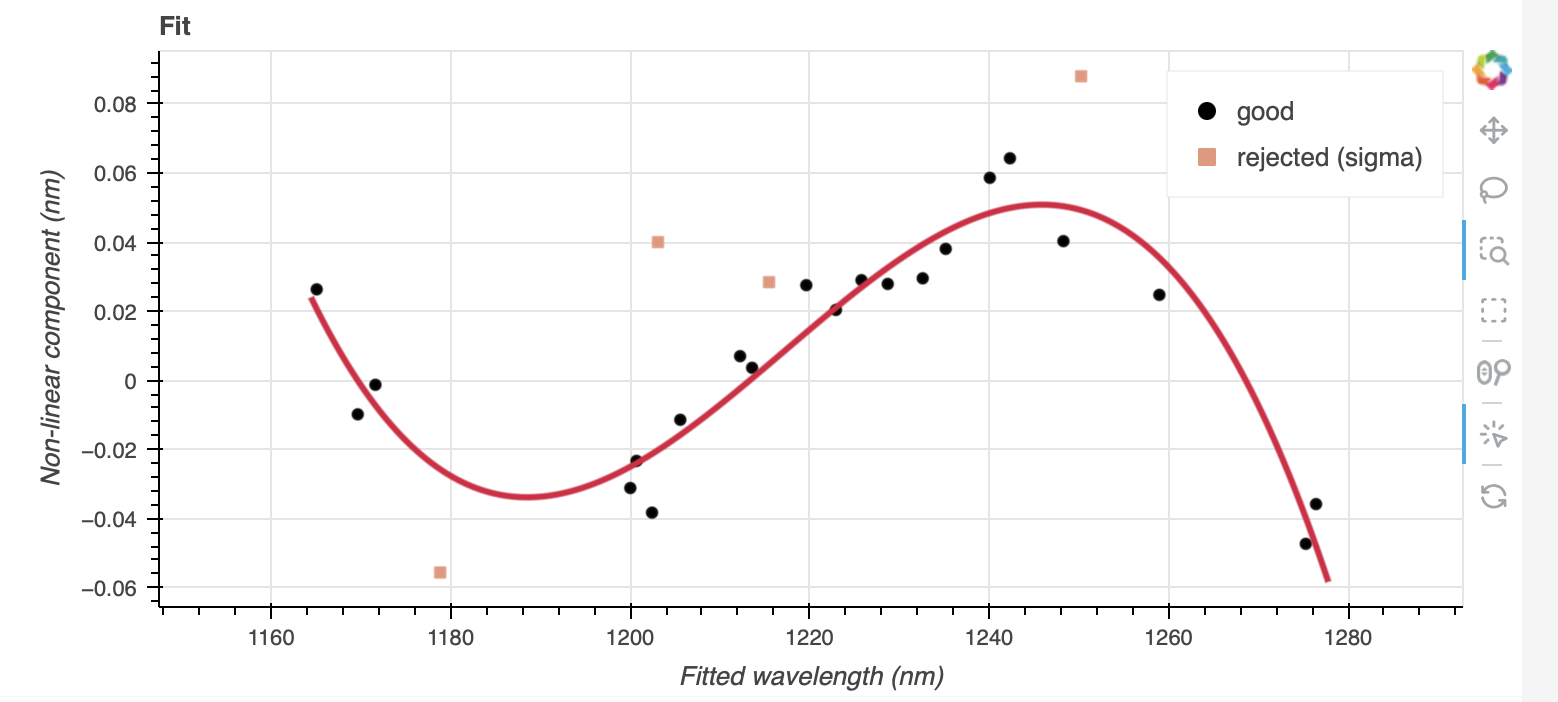
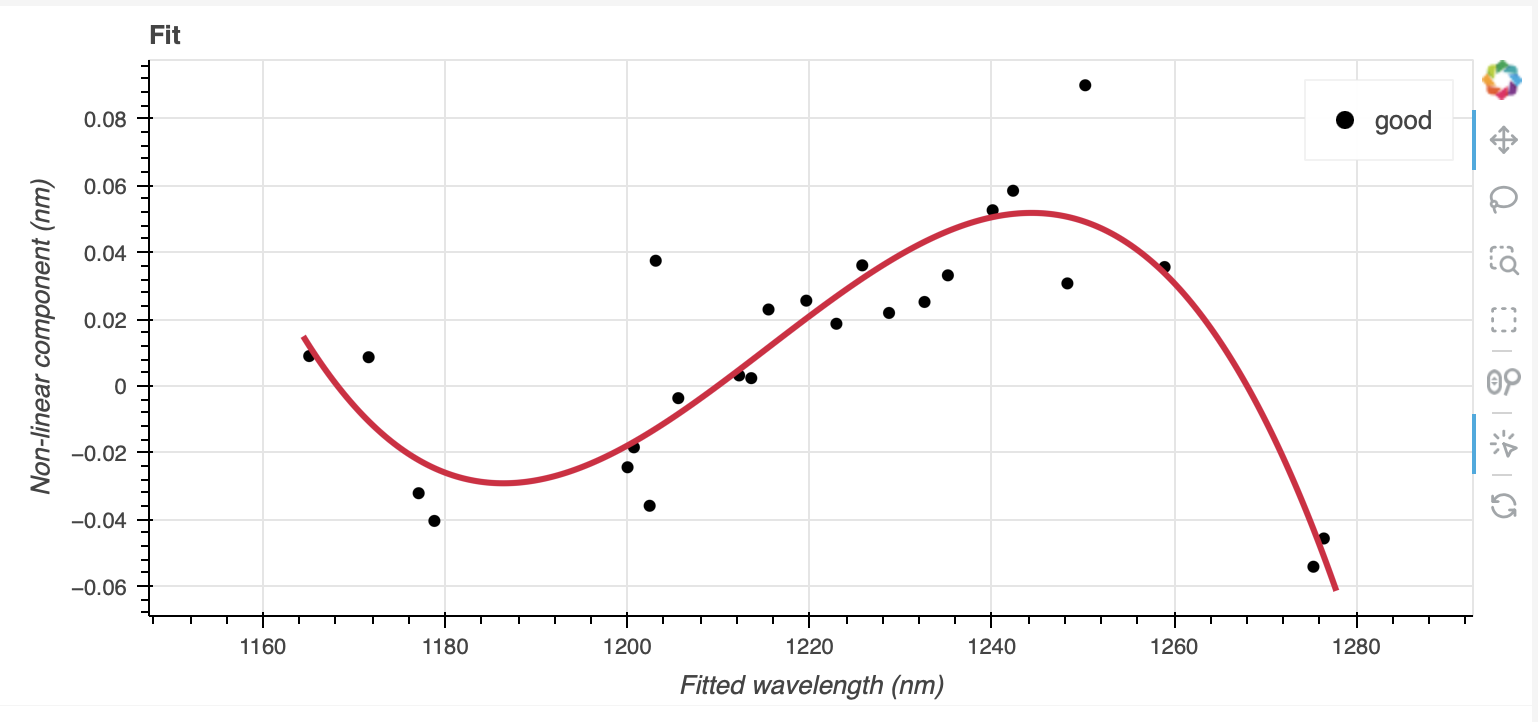
command line examples up to example 3.  Updated to Feb2025 master branch which works much better than the one from last May.

diff --git a/geminidr/doc/tutorials/GNIRSLS-DRTutorial/conf.py b/geminidr/doc/tutorials/GNIRSLS-DRTutorial/conf.py
@@ -25,7 +25,7 @@ today = 'May 2025'
 
 extensions = ['sphinx.ext.intersphinx',
     'sphinx.ext.todo',
-    'sphinx.ext.imgmath'
+    'sphinx.ext.imgmath',
 ]
 
 templates_path = ['_templates']

diff --git a/geminidr/doc/tutorials/GNIRSLS-DRTutorial/ex2_gnirsls_Jband111mm_cmdline.rst b/geminidr/doc/tutorials/GNIRSLS-DRTutorial/ex2_gnirsls_Jband111mm_cmdline.rst
@@ -2,7 +2,7 @@
 
 .. include:: symbols.txt
 
-.. _gnirs_Jband111mm_cmdline:
+.. _gnirsls_Jband111mm_cmdline:
 
 **************************************************************************
 Example 2 - J-band Longslit Point Source - Using the "reduce" command line
@@ -175,8 +175,7 @@ you run ``normalizeFlat`` in interactive mode you can clearly see the two
 levels.
 
 In interactive mode, the objective is to get a fit that falls inbetween the
-two sets of points, with a symmetrical residual fit.  In this case, order=30
-worked well.
+two sets of points, with a symmetrical residual fit.
 
 Note that you are not required to run in interactive mode, but you might want
 to if flat fielding is critical to your program.
@@ -185,9 +184,9 @@ to if flat fielding is critical to your program.
 
     reduce @flats.lis -p interactive=True
 
-In this case, we find that sigma clipping with 1 iteration and
-grow=2 rejects the outliers at the left end of the flat.  The fit
-leads to residuals that are symmetrical.
+In this case, order=20, the default, worked well and we find that sigma
+clipping with 1 iteration and grow=2 rejects the outliers at the left end
+of the flat.  The fit leads to residuals that are symmetrical.
 
 .. image:: _graphics/gnirsls_Jband111_evenoddflat.png
    :width: 600
@@ -203,8 +202,9 @@ topic.  The quality of the results and what to use depend greatly on the
 wavelength regime and the grating.
 
 Our configuration in this example is J-band with a central wavelength of
-1.22 |um|, using the 111 l/mm grating. Arcs are available, however there
-might be cases where there are too few lines to get a good solution.
+1.22 |um|, using the 111 l/mm grating. Arcs are available, however, depending
+on the central wavelength setting, there might be cases where there are too
+few lines or the coverage is not adequate to get a good solution.
 
 In our current case, the numbers of arcs lines and sky lines are similar.
 Either solution could work.  We will show the result of both.  It is up to
@@ -227,20 +227,23 @@ an arc lamp.
 
 Here, increasing the order to 4 helps to get a tighter fit.
 
-.. image:: _graphics/gnirsls_Jband111mm_arc.png
-   :width: 600
-   :alt: Arc line identifications and fit
+.. image:: _graphics/gnirsls_Jband111mm_arcID.png
+    :width: 600
+    :alt: Arc line identifications
 
-.. todo:: redo the screenshot and separate the line plot and the fit to
-        avoid having the buttons in the way.
+.. image:: _graphics/gnirsls_Jband111mm_arcfit.png
+   :width: 600
+   :alt: Arc line fit
+
 
 Using the sky lines
 -------------------
 The spectrum has a number of OH and O\ :sub:`2` sky lines that can be used to
 create a wavelength solution.  The calibration can be done on a single frame
 or, in case of multiple input frames, the frames will be stacked.  It is
-recommended to use only one frame for a more precised wavelength solution,
-unless multiple frames are needed to increase the signal-to-noise ratio.
+recommended to use only one frame for a more precise wavelength solution,
+unless multiple frames are needed to increase the signal-to-noise ratio.  Here
+we will use all the frames in the ``sci.lis`` list.
 
 Wavelength calibration from sky lines is better done in interactive mode
 despite our efforts to automate the process.
@@ -252,21 +255,8 @@ invoke the ``makeWavecalFromSkyEmission`` recipe.
 
     reduce @sci.lis -r makeWavecalFromSkyEmission -p interactive=True
 
-In this case, you will initially get no fit at all in the interactive window.
-This is because the
-sky lines are relatively weak.
-
-.. image:: _graphics/gnirsls_Jband111_noskyfit.png
-   :width: 600
-   :alt: No sky lines found, no fit
-
-On the left control panel, set the ``Minimum SNR`` to 5 (down from the default
-of 10).  Then click the "Reconstruct points" button.  Sky lines will now be
-identified and you will get a fit.  Use the sky line model at the top as a
-reference to ensure that the fit is correct.  You can also add some of the
-weaker lines manually, and/or change the sigma clipping parameters.
-For example, lowering the high and low sigma clipping to 2 will help reject
-some of the weak blended lines that are more inaccurate.
+In this case, using all the frames, we get a good signal to noise and an
+automatic fit.  If you wanted, you could identify more sky lines manually.
 
 .. image:: _graphics/gnirsls_Jband111_skylineref.png
    :width: 600
@@ -275,6 +265,14 @@ some of the weak blended lines that are more inaccurate.
 .. image:: _graphics/gnirsls_Jband111_skyfit.png
    :width: 600
    :alt: Sky lines fit
+
+.. note::  If the sky lines were too weak and not fit were found, a possible
+    solution is to lower the minimum SNR to 5 (down from the default of 10).
+    This setting is in the left control panel.  When done, click the the
+    "Reconstruct points" button.
+
+.. note:: Lowering the high and low sigma clipping to 2 will help reject some
+    of the weak blended lines that are more inaccurate.
 
 Each case will be slightly different.   Whether you decide to use the solution
 from the arc lamp or the sky lines is up to you.
@@ -297,13 +295,9 @@ this step will NOT make any adjustment.  We found that in general, the
 adjustment is so small as being in the noise.  If you wish to make an
 adjustment, or try it out, see :ref:`wavzero` to learn how.
 
-For this dataset, the automatic wavelength zero point algorithm would find a
-shift of no more than 0.1333 pixels (-0.01479 nm), so not really significant.
-This is typical and why the default is set to do nothing.
-
 This is what one raw image looks like.
 
-.. image:: _graphics/gnirsls_Jband111mm_raw.png
+.. image:: _graphics/gnirsls_Jband111nm_raw.png
    :width: 400
    :alt: raw science image
 
@@ -312,7 +306,7 @@ to call |reduce| on the science frames to get an extracted spectrum.
 
 .. note::  If you have derived a wavelength solution from both the arcs and
      the sky lines, as we've done here, you will have two solutions in the
-     calibration manager database.  My default, the system will pick the sky
+     calibration manager database.  By default, the system will pick the sky
      line solution because the solution is closer in time (same time, in fact)
      as the science observations.  If you wish to use the lamp solution, either
      delete the sky line solution from the database
@@ -324,23 +318,39 @@ to call |reduce| on the science frames to get an extracted spectrum.
 
 ::
 
-    reduce @sci.lis -p findAperture:max_apertures=1 traceApertures:niter=3 distortionCorrect:order=1
+    reduce @sci.lis
 
-.. todo:: funky shape to the spectrum.  Somewhat visible in the raw data
-        however.
+The 2D spectrum looks like this:
 
-.. todo:: way too many junk apertures.
+::
 
-.. todo:: trace again benefits from sigma clipping with 3 iterations.
+    reduce -r display N20180201S0052_2D.fits
+
+.. image:: _graphics/gnirsls_Jband111mm_2D.png
+   :width: 400
+   :alt: reduced 2D spectrum
+
+The 1D spectrum looks like this:
+
+::
+
+    dgsplot N20180201S0052_1D.fits 1
+
+.. image:: _graphics/gnirsls_Jband111mm_1D.png
+   :width: 400
+   :alt: raw science image
 
 
 
-
-
-From Olesja about the using stack vs single for sky line wavecal, and how to
-set the sigma based on SNR and blended lines.
-
-I didn’t look into the amount of shift between the lines during sequences. My assumption was that if the PIs care about the precise wavecal, they would try to use a single frame (if the SNR allows), and if they don’t care or if the SNR is low, they would use a stack. (edited)
-
-Also, I wouldn’t think of the rejected lines in both of the above plots as “good”. Most are barely above the noise level, and the others are blends, which in my book is a definition of a “bad” line (especially when there are enough of unblended strong lines to choose from).
-I actually tried to filter out this kind of lines on purpose by setting the default lsigma and hsigma for wavecal from skylines to “2” . If you set those back to “3" it maybe that most of these lines wouldn’t get rejected. (edited)
+.. From Olesja about the using stack vs single for sky line wavecal,
+   and how to set the sigma based on SNR and blended lines.  I didn’t look
+   into the amount of shift between the lines during sequences. My assumption
+   was that if the PIs care about the precise wavecal, they would try to use a
+   single frame (if the SNR allows), and if they don’t care or if the SNR is
+   low, they would use a stack. Also, I wouldn’t think of the rejected lines
+   in both of the above plots as “good”. Most are barely above the noise level,
+   and the others are blends, which in my book is a definition of a “bad” line
+   (especially when there are enough of unblended strong lines to choose from).
+   I actually tried to filter out this kind of lines on purpose by setting the
+   default lsigma and hsigma for wavecal from skylines to “2” . If you set
+   those back to “3" it maybe that most of these lines wouldn’t get rejected. (edited)

diff --git a/geminidr/doc/tutorials/GNIRSLS-DRTutorial/ex3_gnirsls_Lband10mm_cmdline.rst b/geminidr/doc/tutorials/GNIRSLS-DRTutorial/ex3_gnirsls_Lband10mm_cmdline.rst
@@ -9,13 +9,12 @@ Example 3 - L-band Longslit Point Source - Using the "reduce" command line
 **************************************************************************
 
 We will reduce the GNIRS L-band longslit observation of "HD41335", a Be-star,
-using the "|reduce|" command that
-is operated directly from the unix shell.  Just open a terminal and load
-the DRAGONS conda environment to get started.
+using the "|reduce|" command that is operated directly from the unix shell.
+Just open a terminal and load the DRAGONS conda environment to get started.
 
-This observation uses the 10 l/mm grating, the longred camera, a 0.1 arcsec
+This observation uses the 10 l/mm grating, the long-red camera, a 0.1 arcsec
 slit, and is centered at 3.7 |um|.  The dither pattern is a standard
-ABBA.
+ABBA sequence.
 
 The dataset
 ===========
@@ -64,7 +63,7 @@ could contain different observed targets and different exposure times depending
 on how you like to organize your raw data.
 
 The DRAGONS data reduction pipeline does not organize the data for you.  You
-have to do it.  However, DRAGONS provides tools to help you with that.
+have to do it.  However, DRAGONS provides tools to help you.
 
 The first step is to create input file lists.  The tool "|dataselect|" helps
 with that.  It uses Astrodata tags and "|descriptors|" to select the files and
@@ -94,7 +93,7 @@ In our case, the science observations can be selected from the observation
 class, ``science``, that is how they are differentiated from the telluric
 standards which are ``partnerCal``.
 
-If we had multiple targets, we would need to split them into separate list. To
+If we had multiple targets, we would need to split them into separate lists. To
 inspect what we have we can use |dataselect| and |showd| together.
 
 ::
@@ -154,8 +153,10 @@ you run ``normalizeFlat`` in interactive mode you can clearly see the two
 levels.
 
 In interactive mode, the objective is to get a fit that falls inbetween the
-two sets of points, with a symmetrical residual fit.  In this case, order=30
-worked well.
+two sets of points, with a symmetrical residual fit.  In this case, because
+of the rapid variations around pixel 800, increasing the order could improve
+the final results.  Setting ``order=50`` fits that area well while still
+offering a good fit elsewhere.
 
 Note that you are not required to run in interactive mode, but you might want
 to if flat fielding is critical to your program.
@@ -166,35 +167,45 @@ to if flat fielding is critical to your program.
 
 The interactive tools are introduced in section :ref:`interactive`.
 
-.. image:: _graphics/gnirsls_Lband10_evenoddflat.png
+.. image:: _graphics/gnirsls_Lband10mm_evenoddflat.png
    :width: 600
    :alt: Even-odd effect in flats
 
 Processed Arc - Wavelength Solution
 ===================================
 The wavelength solution for L-band and M-band data is derived from the telluric
-sky lines in the science frames.  The quality of the wavelength solution
+emission lines in the science frames.  The quality of the wavelength solution
 depends on the resolution and brightness of the telluric lines.
 
 Wavelength calibration from sky lines is better done in interactive mode
 despite our efforts to automate the process.
 
-To use the sky lines in the science frames, we invoke the ``makeWavecalFromSkyEmission`` recipe.
+To use the sky lines in the science frames, we invoke the
+``makeWavecalFromSkyEmission`` recipe.
 
 ::
 
     reduce @sci.lis -r makeWavecalFromSkyEmission -p interactive=True
 
-.. todo:: min SNR to 5.
+It is very important to inspect the line identification.  Using the defaults,
+like we did above, careful inspection shows that the line identification is
+wrong.  Zooming in, we see the result below, not how the lines do not align.
 
-
-.. image:: _graphics/gnirsls_Lband10mm_arc.png
+.. image:: _graphics/gnirsls_Lband10mm_wrongarcID.png
    :width: 600
-   :alt: Arc line identifications
+   :alt: Incorrect arc line identifications
 
-.. image:: _graphics/gnirsls_Lband10mm_arcfit.png
+We get a good fit by changing the "Minimum SNR for peak detection" value
+to 5 in the panel on the left and then clicking the "Reconstruct points" button.
+
+.. image:: _graphics/gnirsls_Lband10mm_correctarcID.png
    :width: 600
-   :alt: Arc line fit
+   :alt: Correct arc line identifications
+
+
+.. note:: It is possible to set the minimum SNR from the command line by
+   adding ``-p determineWavelengthSolution:min_snr=5`` to the ``reduce`` call)
+
 
 .. telluric
 
@@ -213,21 +224,24 @@ This is what one raw image looks like.
    :width: 400
    :alt: raw science image
 
-With all the calibrations in the local calibration manager, one only needs
-to call |reduce| on the science frames to get an extracted spectrum.
+With all the calibrations in the local calibration manager, simply call
+|reduce| on the science frames to get an extracted spectrum.
 
 ::
 
-    reduce @sci.lis distortionCorrect:order=1
+    reduce @sci.lis
 
 To run the reduction with all the interactive tools activated, set the
 ``interactive`` parameter to ``True``.
 
 ::
 
-    reduce @sci.lis -p interactive=True distortionCorrect:order=1
+    reduce @sci.lis -p interactive=True
 
-.. todo:: trace.  order=5, niter=3
+The default fits are all good, though the trace can be improved by setting
+the order to 5.
+
+The final 2D spectrum and the extracted 1D spectrum are shown below.
 
 .. image:: _graphics/gnirsls_Lband10mm_2d.png
    :width: 400

diff --git a/geminidr/doc/tutorials/GNIRSLS-DRTutorial/ex3_gnirsls_Lband10mm.rst b/geminidr/doc/tutorials/GNIRSLS-DRTutorial/ex3_gnirsls_Lband10mm.rst
@@ -11,9 +11,9 @@ Example 3 - L-band Longslit Point Source (10 l/mm grating)
 In this example, we will reduce the GNIRS L-band longslit observation
 of a Be-star.
 
-This observation uses the 10 l/mm grating, the longred camera, a 0.1 arcsec
+This observation uses the 10 l/mm grating, the long-red camera, a 0.1 arcsec
 slit, and is centered at 3.7 |um|.  The dither pattern is a standard
-ABBA.
+ABBA sequence.
 
 .. toctree::
    :maxdepth: 1

diff --git a/geminidr/doc/tutorials/GNIRSLS-DRTutorial/ex3_gnirsls_Lband10mm_api.rst b/geminidr/doc/tutorials/GNIRSLS-DRTutorial/ex3_gnirsls_Lband10mm_api.rst
@@ -1,0 +1,9 @@
+.. ex3_gnirsls_Lband10mm_api.rst
+
+.. include:: symbols.txt
+
+.. _gnirsls_Lband10mm_api:
+
+***********************************************************************
+Example 3 - L-band Longslit Point Source - Using the "Reduce" class API
+***********************************************************************

diff --git a/geminidr/doc/tutorials/GNIRSLS-DRTutorial/ex2_gnirsls_Jband111mm_api.rst b/geminidr/doc/tutorials/GNIRSLS-DRTutorial/ex2_gnirsls_Jband111mm_api.rst
@@ -2,7 +2,7 @@
 
 .. include:: symbols.txt
 
-.. _gnirs_Jband111mm_api:
+.. _gnirsls_Jband111mm_api:
 
 ***********************************************************************
 Example 2 - J-band Longslit Point Source - Using the "Reduce" class API
